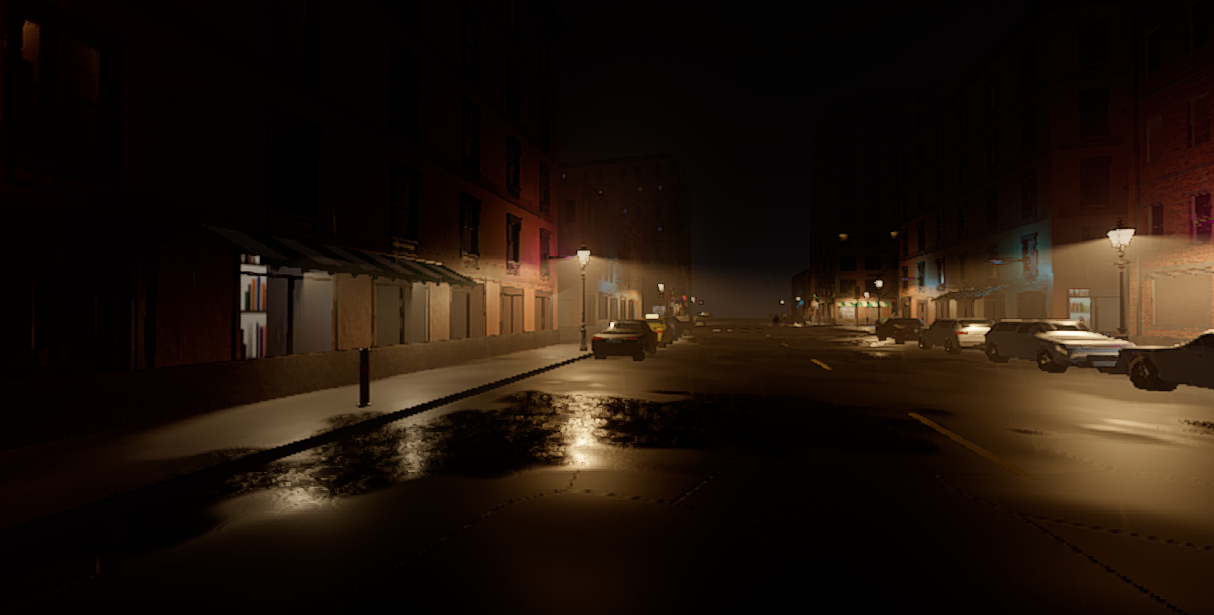
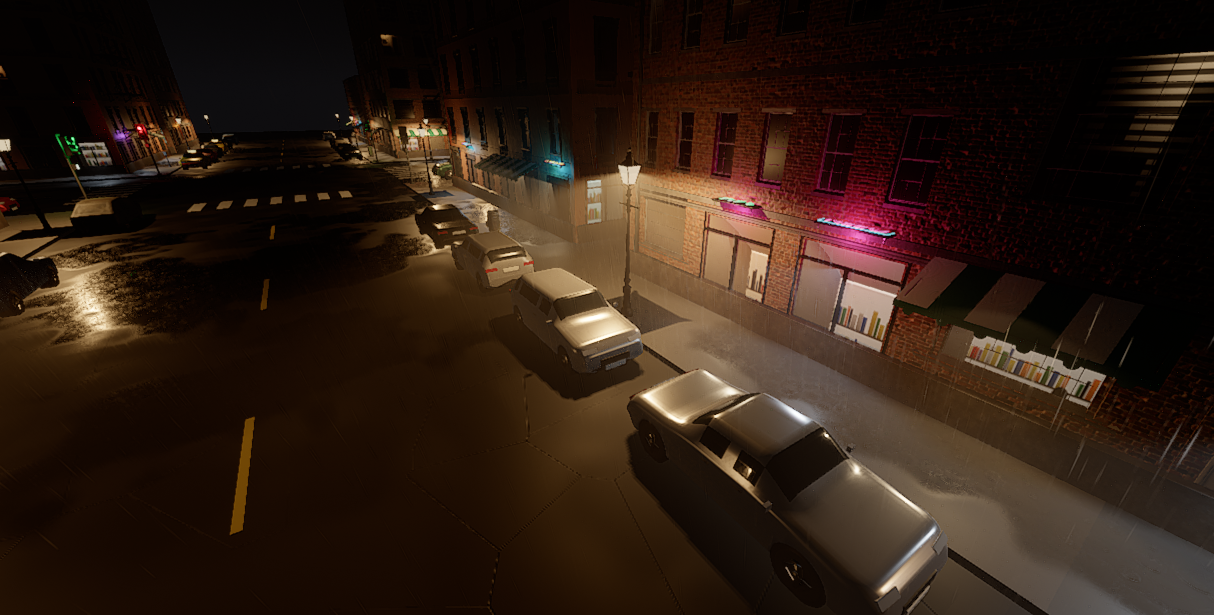
Luz rebotada en pantalla (SSGI) y neones planos sobre la fachada [release]
- ssgi(): 1/2/3 rayos por píxel (Medium/High/Ultra) hasta 5 m sobre el depth
  buffer; la luz del impacto sale del historial TAA (varios rebotes con el tiempo),
  con límite de luminancia contra fireflies. Reduce el ambiente plano donde hay
  impactos. TEFRA_NO_GI=1 para comparar.
- Neones de la ciudad montados en plano sobre los escaparates, con halo suave.

Claude-Session: https://claude.ai/code/session_0175iHfgMKvPxFPfbt6BAo9o

diff --git a/engine/renderer/src/renderer.cpp b/engine/renderer/src/renderer.cpp
@@ -52,7 +52,8 @@ struct LightingPush {
     VkDeviceAddress lights;
     u32 light_count, clouds; // clouds: volumetric cloud texture (0xFFFFFFFF = 2D layer)
     VkDeviceAddress tiles;   // per-tile light lists (light_cull.comp)
-    u32 tiles_x, history;    // history: last frame's TAA output for screen-space reflections (0xFFFFFFFF = off)
+    u32 tiles_x, history;    // history: last frame's TAA output for SSR and bounce light (0xFFFFFFFF = off)
+    u32 fx;                  // bit0: screen-space reflections, bits 8..11: bounce light rays per pixel
 };
 struct VolumetricPush {
     VkDeviceAddress frame;
@@ -1493,6 +1494,9 @@ void Renderer::render(VkCommandBuffer cmd, u32 slot, u64 frame_index, rhi::GpuTi
         taa_valid = history_valid_ ? 1u : 0u;
     }
     const bool ssr = s.ssr && taa_valid != 0u;
+    static const bool no_gi = std::getenv("TEFRA_NO_GI") != nullptr; // A/B comparisons of the bounce light
+    const u32 gi_rays = taa_valid != 0u && !no_gi ? min(s.gi_rays, 15u) : 0u;
+    const bool use_history = ssr || gi_rays > 0u;
 
     graph_.add_pass(
         "lighting", rg::PassType::Raster,
@@ -1504,7 +1508,7 @@ void Renderer::render(VkCommandBuffer cmd, u32 slot, u64 frame_index, rhi::GpuTi
             if (ao.valid()) b.read(ao, rg::Access::Sampled);
             if (vol.valid()) b.read(vol, rg::Access::Sampled);
             if (clouds_tex.valid()) b.read(clouds_tex, rg::Access::Sampled);
-            if (ssr) b.read(taa_prev, rg::Access::Sampled);
+            if (use_history) b.read(taa_prev, rg::Access::Sampled);
             b.color(hdr, rg::Load::DontCare);
         },
         [=, this, &fc](const rg::PassContext& ctx) {
@@ -1528,7 +1532,8 @@ void Renderer::render(VkCommandBuffer cmd, u32 slot, u64 frame_index, rhi::GpuTi
                            clouds_tex.valid() ? ctx.sampled(clouds_tex) : 0xFFFFFFFFu,
                            tiles_addr,
                            tiles_x,
-                           ssr ? ctx.sampled(taa_prev) : 0xFFFFFFFFu};
+                           use_history ? ctx.sampled(taa_prev) : 0xFFFFFFFFu,
+                           (ssr ? 1u : 0u) | (gi_rays << 8u)};
             vkCmdPushConstants(ctx.cmd, layout, VK_SHADER_STAGE_ALL, 0, sizeof(p), &p);
             vkCmdDraw(ctx.cmd, 3, 1, 0, 0);
         });
@@ -1913,6 +1918,8 @@ void limit_quality(RenderSettings& s, Quality q) {
     static const u32 max_lights[4] = {128, 256, 512, 1024};
     s.rain_drops = min(s.rain_drops, rain_drops[static_cast<u32>(q)]);
     s.max_lights = min(s.max_lights, max_lights[static_cast<u32>(q)]);
+    static const u32 gi_rays[4] = {0, 1, 2, 3};
+    s.gi_rays = min(s.gi_rays, gi_rays[static_cast<u32>(q)]);
     static const u32 local_shadows[4] = {0, 4, 8, 8};
     static const u32 local_res[4] = {256, 512, 512, 1024};
     s.local_shadows = min(s.local_shadows, local_shadows[static_cast<u32>(q)]);

diff --git a/apps/studio/src/templates.cpp b/apps/studio/src/templates.cpp
@@ -840,19 +840,18 @@ void build_city_rain(DataModel& dm) {
                             const vec3 at = fc + t * ((f32(k) - 2.5f) * 3.0f);
                             const f32 q = rnd();
                             if (q < 0.2f) {
-                                // Blade sign: two boards back to back, perpendicular to the facade.
+                                // Sign flat on the facade, over the shop window (standoffs keep it off the
+                                // cornice); its glow washes the wall around it.
                                 static const char* const kNeon[] = {
                                     "neon_sign_open", "neon_sign_bar",   "neon_sign_hotel", "neon_sign_ramen",
                                     "neon_sign_24h",  "neon_sign_pizza", "neon_sign_cafe",  "neon_sign_liquor"};
                                 const u32 pick = u32(rnd() * 8.0f) % 8;
-                                const vec3 c = at + n * 0.95f + vec3{0, 3.9f, 0};
-                                prop(furniture, "NeonSign", kNeon[pick], c, yaw_to(t));
-                                prop(furniture, "NeonSign", kNeon[pick], c, yaw_to(-t));
-                                light_at(furniture, c + n * 0.2f, neon_cols[pick % 4], 0.8f, 5.0f);
+                                const vec3 c = at + vec3{0, 3.0f, 0};
+                                prop(furniture, "NeonSign", kNeon[pick], c, yaw_to(n));
+                                light_at(furniture, c + n * 0.45f, neon_cols[pick % 4], 0.6f, 4.5f);
                             } else if (q < 0.38f) {
                                 prop(furniture, "Awning", "awning", at + n * 0.02f + vec3{0, 2.95f, 0}, yaw_to(n));
                             }
-                            // Shop light spilling onto the wet sidewalk.
                             // Shop window light: out of the glass and down onto the wet sidewalk, none back into the
                             // wall.
                             if (q < 0.55f)

diff --git a/engine/renderer/include/tefra/renderer/renderer.h b/engine/renderer/include/tefra/renderer/renderer.h
@@ -59,6 +59,7 @@ struct RenderSettings {
     f32 sun_scale = 1.0f;              // multiplies the sun / moon light (0 = interiors without daylight)
     vec3 ambient{0.0f, 0.0f, 0.0f};    // flat indoor/bounce irradiance (lux): interiors lit by local lights
     bool ssr = true;                   // screen-space reflections on glossy surfaces (needs TAA history)
+    u32 gi_rays = 2;                   // screen-space bounce light: rays per pixel (0 = off)
     u32 local_shadows = 8;             // nearest local lights with Shadows = true that get a shadow map
     u32 local_shadow_resolution = 512; // per light (atlas of 4 x 2 tiles)
     u32 max_lights = 512;              // nearest visible local lights per frame (tiled: 64 per 16x16 tile)

diff --git a/CLAUDE.md b/CLAUDE.md
@@ -29,6 +29,7 @@ Las sesiones no recuerdan nada: este archivo es la memoria. Actualízalo al fina
   - Kits en `build/polyhaven` (no versionado).
   - Coste sin medir en la HD 520 (edificios de 55–186 k triángulos).
 - **Luces con forma y sombra (2026-10-16):** `SpotLight.Spill` (perfil fuera del cono, también en halos, volumétrica y lluvia); `Shadows=true` → atlas de sombras locales 4×2 (`local_shadows` pass, cascade 4.. en `shadow.vert`, `local_shadow()` en `shadow.glsl`; 0/4/8/8 por preset). Niebla de ciudad neutra (Atmosphere azul gris, ambiente desaturado en `fog_ambient`).
+- **Luz rebotada SSGI** (`ssgi()` en `lighting.frag`, historial TAA, rayos 0/1/2/3 por preset, `RenderSettings::gi_rays`, push `fx` bits 8..11; `TEFRA_NO_GI=1` para A/B). En la nube el preset auto es Low: probar con `tefra_studio --quality high`. Neones de la ciudad planos sobre la fachada (z 3,0 m).
 - **POM + interior mapping** (`gbuffer.frag`, flags 32/64, extras glTF `tefra_parallax`/`tefra_height`/`tefra_interior`; `docs/research/parallax/REPORT.md`).
 - **Cámara y personaje en juego:** interpolación de física (`character_post_step` con alpha), inercia/giro suave/coyote time/buffer de salto/salto variable/sprint (`physics/character.cpp`); cámara con cursor bloqueado, shift-lock (Ctrl), primera persona, zoom exponencial, colisión con 3 rayos (`GameRuntime::update_camera`).
 - **Nubes volumétricas opcionales** (`Clouds.Volumetric`; `shaders/clouds_vol.frag`, pase `clouds` a 1/2-1/4 de resolución solo en píxeles de cielo, compuesto en `lighting.frag` `sky_with_clouds`; presets en `limit_quality`). Pendiente: sombras de nubes sobre el suelo, reproyección temporal propia.

diff --git a/docs/STUDIO.md b/docs/STUDIO.md
@@ -349,6 +349,13 @@ Para clientes que solo hablan stdio (Claude Desktop) hay un puente, `tefra_mcp`;
 - Modelos: `builtin:models/city/*.glb` y `builtin:models/city/buildings/*.gltf`; ver
   `apps/studio/resources/models/city/README.md`.
 
+## Luz rebotada (iluminación global en pantalla)
+- Cada píxel lanza 1 rayo (Medium), 2 (High) o 3 (Ultra) hacia su hemisferio, hasta 5 m. Donde chocan con una
+  superficie toman la luz que esta emitía en el fotograma anterior. Con los fotogramas se acumulan varios rebotes.
+- Efecto: el charco iluminado por la farola aclara la fachada y los bajos de los coches, los neones tiñen la pared y
+  las esquinas quedan más oscuras que las zonas abiertas.
+- Solo ve lo que está en pantalla. Está apagado en Low. `TEFRA_NO_GI=1` lo desactiva para comparar.
+
 ## Texturas con profundidad (parallax e interior mapping)
 - **Parallax occlusion mapping:** las paredes de ladrillo y enlucido tienen relieve real al mirarlas de lado; el
   mortero queda hundido y los ladrillos lo tapan. Funciona hasta unos 22 m.
